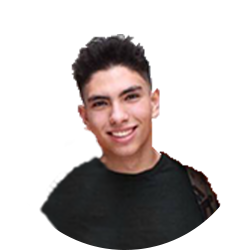
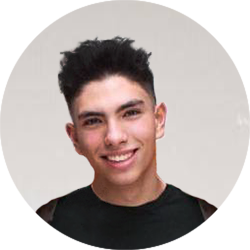
navbar fix

diff --git a/index.html b/index.html
@@ -251,7 +251,7 @@
               <img src="img/avatar/er.png" alt="Sample avatar">
             </div>
             <h5 class="font-weight-bold mt-4 mb-3">Emanuele Rucci</h5>
-            <p class="text-uppercase blue-text"><strong>Team leader</strong></p>
+            <p class="text-uppercase blue-text"><strong>CEO</strong></p>
             <!-- <p class="grey-text">Neque porro quisquam est, qui dolorem ipsum quia dolor sit amet, consectetur, adipisci  sed quia non numquam modi tempora eius.</p> -->
           </div>
           <!-- Grid column -->
@@ -262,7 +262,7 @@
               <img src="img/avatar/fc.png" alt="Sample avatar">
             </div>
             <h5 class="font-weight-bold mt-4 mb-3">Francesco Caiati</h5>
-            <p class="text-uppercase blue-text"><strong>Developer</strong></p>
+            <p class="text-uppercase blue-text"><strong>CTO</strong></p>
             <!-- <p class="grey-text">Sed ut perspiciatis unde omnis iste natus error sit voluptatem ipsa accusantium doloremque rem laudantium totam aperiam.</p> -->
           </div>
           <!-- Grid column -->
@@ -295,7 +295,23 @@
 
     <section class="contact " id="contact">
       <div class="container">
-        <h2>Teniamoci in contatto!</h2>
+        <div class="col-sm-12 mx-auto">
+          <div class="text-center h-100 white-text">
+            <h3 class="my-4 pb-2">Teniamoci in contatto!</h3>
+            <ul class="list-unstyled ml-4">
+              <li>
+                <p><i class="fa fa-map-marker pr-2"></i>Bitonto, 70032, Italia</p>
+              </li>
+              <li>
+                <p><i class="fa fa-phone pr-2"></i>+39 329 534 4436</p>
+              </li>
+              <li>
+                <p><i class="fa fa-envelope pr-2"></i>sharevel.info@gmail.com</p>
+              </li>
+            </ul>
+          </div>
+
+        </div>
         <ul class="list-inline list-social">
           <li class="list-inline-item social-facebook">
             <a href="#">
@@ -315,145 +331,9 @@
         </ul>
       </div>
     </section>
-    <section class="contact-section my-5">
-
-      <!-- Form with header -->
-      <div class="card">
-
-      <!-- Grid row -->
-      <div class="row">
-
-        <!-- Grid column -->
-        <div class="col-lg-8">
-
-          <div class="card-body form">
-
-            <!-- Header -->
-            <h3 class="mt-4">Scrivici:</h3>
-
-            <!-- Grid row -->
-            <div class="row">
-
-              <!-- Grid column -->
-              <div class="col-md-6">
-                <div class="md-form mb-0">
-                  <input type="text" id="form-contact-name" class="form-control">
-                  <label for="form-contact-name" class="">Your name</label>
-                </div>
-              </div>
-              <!-- Grid column -->
-
-              <!-- Grid column -->
-              <div class="col-md-6">
-                <div class="md-form mb-0">
-                  <input type="text" id="form-contact-email" class="form-control">
-                  <label for="form-contact-email" class="">Your email</label>
-                </div>
-              </div>
-              <!-- Grid column -->
-
-            </div>
-            <!-- Grid row -->
-
-            <!-- Grid row -->
-            <div class="row">
-
-              <!-- Grid column -->
-              <div class="col-md-6">
-                <div class="md-form mb-0">
-                  <input type="text" id="form-contact-phone" class="form-control">
-                  <label for="form-contact-phone" class="">Your phone</label>
-                </div>
-              </div>
-              <!-- Grid column -->
-
-              <!-- Grid column -->
-              <div class="col-md-6">
-                <div class="md-form mb-0">
-                  <input type="text" id="form-contact-company" class="form-control">
-                  <label for="form-contact-company" class="">Your company</label>
-                </div>
-              </div>
-              <!-- Grid column -->
-
-            </div>
-            <!-- Grid row -->
-
-            <!-- Grid row -->
-            <div class="row">
-
-              <!-- Grid column -->
-              <div class="col-md-12">
-                <div class="md-form mb-0">
-                  <textarea type="text" id="form-contact-message" class="form-control md-textarea" rows="3"></textarea>
-                  <label for="form-contact-message">Your message</label>
-                  <a class="btn-floating btn-lg blue">
-                    <i class="fa fa-send-o"></i>
-                  </a>
-                </div>
-              </div>
-              <!-- Grid column -->
-
-            </div>
-            <!-- Grid row -->
-
-          </div>
-
-        </div>
-        <!-- Grid column -->
-
-        <!-- Grid column -->
-        <div class="col-lg-4">
-
-          <div class="card-body contact text-center h-100 white-text">
-
-            <h3 class="my-4 pb-2">Contact information</h3>
-            <ul class="text-lg-left list-unstyled ml-4">
-              <li>
-                <p><i class="fa fa-map-marker pr-2"></i>Bitonto, 70032, Italia</p>
-              </li>
-              <li>
-                <p><i class="fa fa-phone pr-2"></i>+39 329 534 4436</p>
-              </li>
-              <li>
-                <p><i class="fa fa-envelope pr-2"></i>sharevel.info@gmail.com</p>
-              </li>
-            </ul>
-            <hr class="hr-light my-4">
-            <ul class="list-inline text-center list-unstyled">
-              <li class="list-inline-item">
-                <a class="p-2 fa-lg tw-ic">
-                  <i class="fa fa-facebook"></i>
-                </a>
-              </li>
-              <li class="list-inline-item">
-                <a class="p-2 fa-lg li-ic">
-                  <i class="fa fa-instagram"> </i>
-                </a>
-              </li>
-              <li class="list-inline-item">
-                <a class="p-2 fa-lg ins-ic">
-                  <i class="fa fa-youtube"> </i>
-                </a>
-              </li>
-            </ul>
-
-          </div>
-
-        </div>
-        <!-- Grid column -->
-
-      </div>
-      <!-- Grid row -->
-
-      </div>
-      <!-- Form with header -->
-
-    </section>
-
     <footer>
       <div class="container">
-        <p>&copy; Your Website 2018. All Rights Reserved.</p>
+        <p>&copy; Sharevel 2018. Tutti i diritti sono riservati.</p>
         <ul class="list-inline">
           <li class="list-inline-item">
             <a href="#">Privacy</a>

diff --git a/rower.html b/rower.html
@@ -1,18 +1,11 @@
 <section class="contact-section my-5">
-
-  <!-- Form with header -->
-  <div class="card">
-
-  <!-- Grid row -->
-  <div class="row">
-
-    <!-- Grid column -->
-    <div class="col-lg-8">
-
-      <div class="card-body form">
+  <div class="container">
+    <div class="row">
+      <div class="col-lg-8">
+        <div class="card-body form">
 
         <!-- Header -->
-        <h3 class="mt-4"><i class="fa fa-envelope pr-2"></i>Write to us:</h3>
+        <h3 class="mt-4">Scrivici:</h3>
 
         <!-- Grid row -->
         <div class="row">
@@ -80,56 +73,44 @@
         </div>
         <!-- Grid row -->
 
-      </div>
+      </div></div>
+      <div class="col-lg-4">
 
+        <div class="card-body contact text-center h-100 white-text">
+
+          <h3 class="my-4 pb-2">Contact information</h3>
+          <ul class="text-lg-left list-unstyled ml-4">
+            <li>
+              <p><i class="fa fa-map-marker pr-2"></i>Bitonto, 70032, Italia</p>
+            </li>
+            <li>
+              <p><i class="fa fa-phone pr-2"></i>+39 329 534 4436</p>
+            </li>
+            <li>
+              <p><i class="fa fa-envelope pr-2"></i>sharevel.info@gmail.com</p>
+            </li>
+          </ul>
+          <hr class="hr-light my-4">
+          <ul class="list-inline text-center list-unstyled">
+            <li class="list-inline-item">
+              <a class="p-2 fa-lg tw-ic">
+                <i class="fa fa-facebook"></i>
+              </a>
+            </li>
+            <li class="list-inline-item">
+              <a class="p-2 fa-lg li-ic">
+                <i class="fa fa-instagram"> </i>
+              </a>
+            </li>
+            <li class="list-inline-item">
+              <a class="p-2 fa-lg ins-ic">
+                <i class="fa fa-youtube"> </i>
+              </a>
+            </li>
+          </ul>
+
+        </div>
+
+      </div></div>
     </div>
-    <!-- Grid column -->
-
-    <!-- Grid column -->
-    <div class="col-lg-4">
-
-      <div class="card-body contact text-center h-100 white-text">
-
-        <h3 class="my-4 pb-2">Contact information</h3>
-        <ul class="text-lg-left list-unstyled ml-4">
-          <li>
-            <p><i class="fa fa-map-marker pr-2"></i>New York, 94126, USA</p>
-          </li>
-          <li>
-            <p><i class="fa fa-phone pr-2"></i>+ 01 234 567 89</p>
-          </li>
-          <li>
-            <p><i class="fa fa-envelope pr-2"></i>contact@example.com</p>
-          </li>
-        </ul>
-        <hr class="hr-light my-4">
-        <ul class="list-inline text-center list-unstyled">
-          <li class="list-inline-item">
-            <a class="p-2 fa-lg tw-ic">
-              <i class="fa fa-twitter"></i>
-            </a>
-          </li>
-          <li class="list-inline-item">
-            <a class="p-2 fa-lg li-ic">
-              <i class="fa fa-linkedin"> </i>
-            </a>
-          </li>
-          <li class="list-inline-item">
-            <a class="p-2 fa-lg ins-ic">
-              <i class="fa fa-instagram"> </i>
-            </a>
-          </li>
-        </ul>
-
-      </div>
-
-    </div>
-    <!-- Grid column -->
-
-  </div>
-  <!-- Grid row -->
-
-  </div>
-  <!-- Form with header -->
-
 </section>

diff --git a/css/new-age.css b/css/new-age.css
@@ -5,6 +5,7 @@ body {
 }
 
 body {
+  overflow-x: hidden;
   font-family: 'Muli', 'Helvetica', 'Arial', 'sans-serif';
 }
 
@@ -81,6 +82,7 @@ section h2 {
 }
 #mainNav .navbar-brand img {
 height: 50px;
+padding-right: 1em;
 }
 #mainNav .navbar-brand:hover, #mainNav .navbar-brand:focus {
   color: white;
@@ -385,9 +387,12 @@ section.contact {
   text-align: center;
 }
 
-section.contact h2 {
-  margin-top: 0;
-  margin-bottom: 25px;
+section.contact h3 {
+font-family: 'Montserrat';
+font-size: 50px;
+font-weight: 500;
+line-height: 1.2;
+color: inherit;
 }
 
 section.contact h2 i {
@@ -395,6 +400,7 @@ section.contact h2 i {
 }
 
 section.contact ul.list-social {
+  margin-top: 2rem;
   margin-bottom: 0;
 }
 
